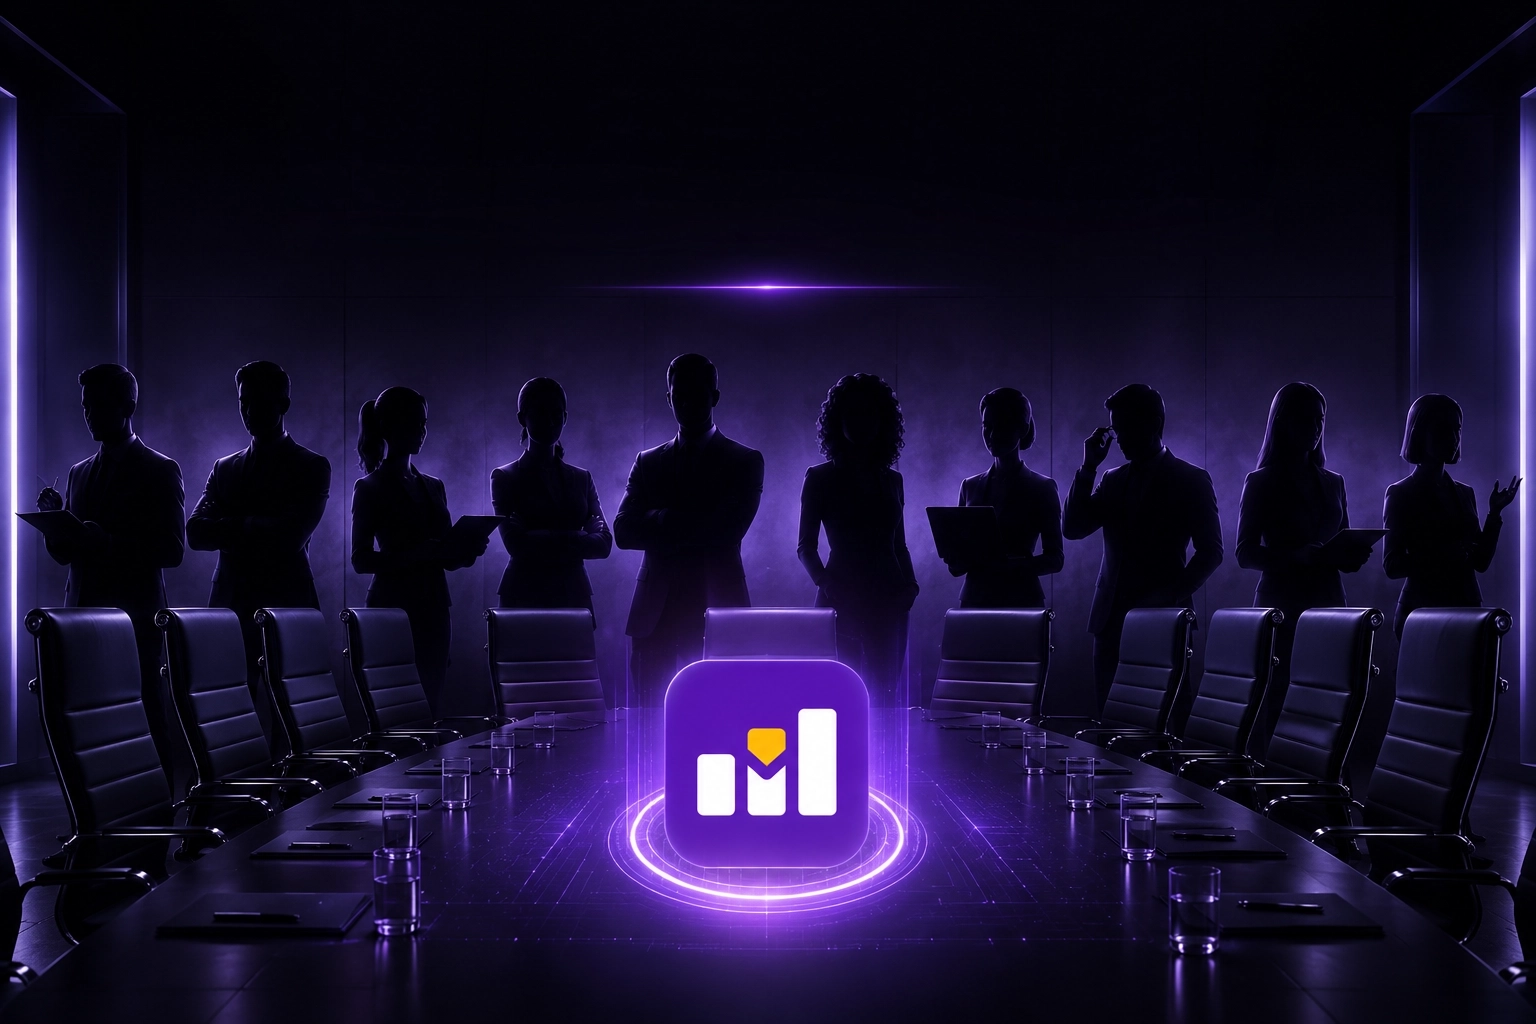
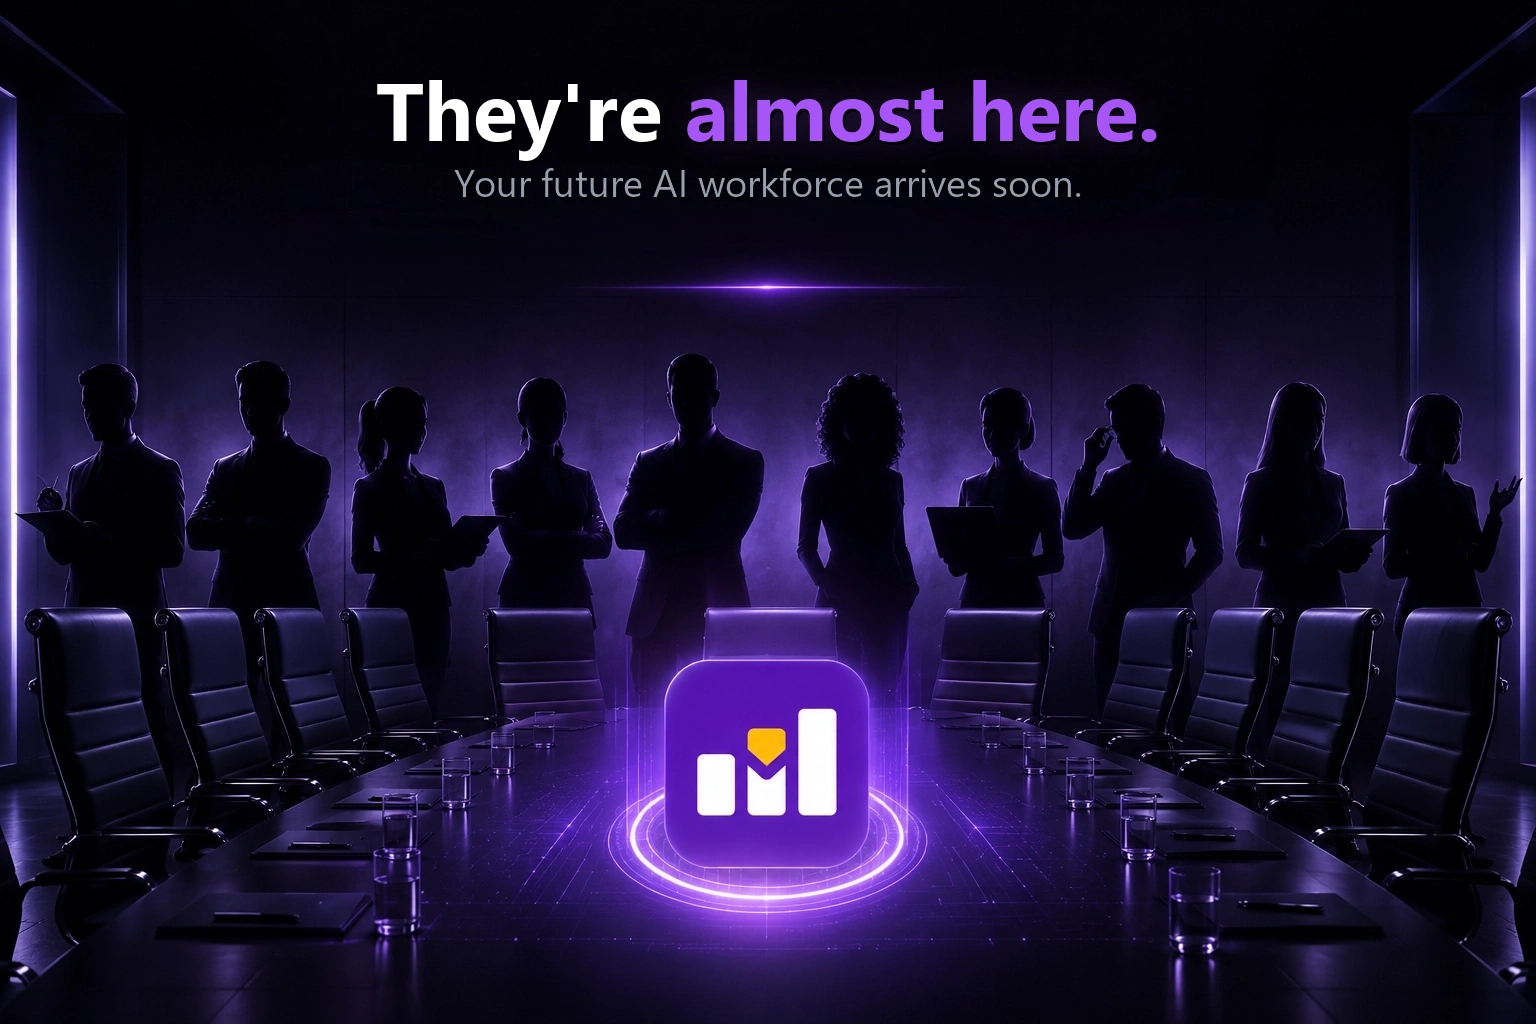
up

Changed region(s): [[0.25, 0.0625, 0.75, 0.1875]]

diff --git a/src/pages/landing1.css b/src/pages/landing1.css
@@ -413,7 +413,7 @@
   position: absolute;
   inset: 0;
   z-index: 2;
-  background: transparent;
+  background: linear-gradient(180deg, rgba(5, 1, 11, 0) 0%, rgba(5, 1, 11, 0.25) 35%, rgba(5, 1, 11, 0.82) 100%);
   pointer-events: none;
 }
 
@@ -422,7 +422,7 @@
   z-index: 3;
   text-align: center;
   width: 100%;
-  padding: 0 24px 45px;
+  padding: 0 24px 50px;
   display: flex;
   flex-direction: column;
   align-items: center;
@@ -435,21 +435,21 @@
   flex-direction: column;
   align-items: center;
   justify-content: center;
-  margin-bottom: 22px;
-  font-family: 'Space Grotesk', 'Inter', sans-serif;
+  margin-bottom: 20px;
+  font-family: 'Space Grotesk', 'Inter', system-ui, -apple-system, sans-serif;
   letter-spacing: -0.02em;
 }
 
 .landing1-page-root .hero-title-line1 {
-  font-size: clamp(30px, 4.5vw, 50px);
-  font-weight: 600;
-  color: #FFFFFF;
+  font-size: clamp(28px, 4.2vw, 54px);
+  font-weight: 500;
+  color: #D1D5DB;
   line-height: 1.15;
   letter-spacing: -0.01em;
 }
 
 .landing1-page-root .hero-title-line2 {
-  font-size: clamp(38px, 6.2vw, 68px);
+  font-size: clamp(36px, 6vw, 70px);
   font-weight: 700;
   color: #FFFFFF;
   line-height: 1.1;
@@ -457,21 +457,30 @@
 }
 
 .landing1-page-root .purple-gradient-text {
-  background: linear-gradient(135deg, #D8B4FE 0%, #A855F7 50%, #9333EA 100%);
+  color: #A855F7;
+  background: linear-gradient(135deg, #C084FC 0%, #A855F7 50%, #9333EA 100%);
   -webkit-background-clip: text;
   -webkit-text-fill-color: transparent;
-  text-shadow: 0 0 35px rgba(168, 85, 247, 0.45);
+  text-shadow: 0 0 30px rgba(168, 85, 247, 0.6);
   display: inline-block;
 }
 
 .landing1-page-root .hero-subtitle {
-  font-size: clamp(15px, 2vw, 19px);
+  font-size: clamp(14px, 1.8vw, 18px);
   font-weight: 400;
-  color: #B3A8CB;
-  line-height: 1.6;
-  max-width: 580px;
-  margin-bottom: 34px;
+  color: #9CA3AF;
+  line-height: 1.5;
+  max-width: 560px;
+  margin-bottom: 28px;
   text-align: center;
+}
+
+.landing1-page-root .hero-sub-block {
+  display: inline;
+}
+
+.landing1-page-root .hero-sub-desktop-br {
+  display: inline;
 }
 
 .landing1-page-root .hero-cta-button {
@@ -1658,8 +1667,37 @@
   .landing1-page-root .hero-content {
     padding-bottom: 24px;
   }
+  .landing1-page-root .hero-title-line1 {
+    font-size: clamp(24px, 6vw, 34px);
+    margin-bottom: 2px;
+  }
+  .landing1-page-root .hero-title-line2 {
+    font-size: clamp(30px, 8.5vw, 42px);
+    display: flex;
+    flex-direction: column;
+    align-items: center;
+    line-height: 1.1;
+  }
+  .landing1-page-root .hero-title-word-business {
+    display: block;
+  }
+  .landing1-page-root .purple-gradient-text {
+    display: block;
+  }
+  .landing1-page-root .hero-subtitle {
+    font-size: clamp(13px, 3.5vw, 15px);
+    line-height: 1.45;
+    margin-bottom: 22px;
+    max-width: 320px;
+  }
+  .landing1-page-root .hero-sub-block {
+    display: block;
+  }
+  .landing1-page-root .hero-sub-desktop-br {
+    display: none;
+  }
   .landing1-page-root .hero-cta-button {
-    padding: 12px 24px;
+    padding: 12px 26px;
     font-size: 14px;
   }
   .landing1-page-root .hero-grid {
@@ -2454,7 +2492,7 @@ body:has(.landing1-page-root) .sales-floating-wrapper {
   flex-direction: column;
   align-items: center;
   justify-content: flex-start;
-  padding: clamp(380px, 55vh, 540px) 20px 80px;
+  padding: clamp(340px, 38vh, 440px) 20px 60px;
   position: relative;
   overflow: hidden;
   z-index: 1;
@@ -2473,11 +2511,78 @@ body:has(.landing1-page-root) .sales-floating-wrapper {
   align-items: center;
 }
 
-/* Join Button with WhatsApp Icon */
+.thankyou-title {
+  font-family: 'Space Grotesk', -apple-system, BlinkMacSystemFont, sans-serif;
+  font-size: clamp(42px, 7vw, 84px);
+  font-weight: 800;
+  letter-spacing: 0.03em;
+  line-height: 1.05;
+  margin: 0 0 16px 0;
+  background: linear-gradient(180deg, #FFFFFF 0%, #E9D5FF 35%, #C084FC 70%, #8B3DFF 100%);
+  -webkit-background-clip: text;
+  -webkit-text-fill-color: transparent;
+  filter: drop-shadow(0 0 25px rgba(168, 85, 247, 0.65)) drop-shadow(0 0 50px rgba(139, 61, 255, 0.4));
+}
+
+.thankyou-subtitle-wrap {
+  display: flex;
+  align-items: center;
+  justify-content: center;
+  gap: 16px;
+  margin-bottom: 28px;
+  width: 100%;
+  max-width: 480px;
+}
+
+.thankyou-sub-line {
+  flex: 1;
+  height: 1px;
+  background: linear-gradient(90deg, transparent 0%, rgba(192, 132, 252, 0.75) 50%, transparent 100%);
+}
+
+.thankyou-subtitle {
+  font-family: 'Space Grotesk', sans-serif;
+  font-size: clamp(12px, 1.8vw, 15px);
+  font-weight: 700;
+  letter-spacing: 0.28em;
+  color: #C084FC;
+  text-transform: uppercase;
+  text-shadow: 0 0 16px rgba(192, 132, 252, 0.65);
+}
+
+.thankyou-body-text {
+  color: rgba(243, 238, 255, 0.92);
+  font-size: clamp(15px, 2.1vw, 18px);
+  line-height: 1.6;
+  font-weight: 400;
+  max-width: 600px;
+  margin: 0 auto;
+  text-shadow: 0 2px 12px rgba(0, 0, 0, 0.9);
+}
+
+.thankyou-body-text p {
+  margin: 0;
+}
+
+.thankyou-purple-text {
+  color: inherit;
+  font-weight: inherit;
+  text-shadow: none;
+}
+
+.thankyou-text-spacer {
+  height: 14px;
+}
+
+.thankyou-bottom-spacer {
+  height: clamp(60px, 12vh, 120px);
+}
+
+/* Join Button with WhatsApp Icon & Right Arrow */
 .thankyou-btn-wrap {
   position: relative;
   z-index: 5;
-  margin-top: 20px;
+  margin-top: 8px;
 }
 
 .thankyou-whatsapp-btn {
@@ -2518,8 +2623,23 @@ body:has(.landing1-page-root) .sales-floating-wrapper {
   transition: transform 0.3s ease;
 }
 
+.thankyou-btn-arrow {
+  width: 18px;
+  height: 18px;
+  stroke: #FFFFFF;
+  stroke-width: 2.2;
+  fill: none;
+  flex-shrink: 0;
+  transition: transform 0.3s ease;
+  margin-left: 2px;
+}
+
 .thankyou-whatsapp-btn:hover .thankyou-whatsapp-icon {
   transform: scale(1.18) rotate(-6deg);
+}
+
+.thankyou-whatsapp-btn:hover .thankyou-btn-arrow {
+  transform: translateX(4px);
 }
 
 @media (max-width: 980px) {
@@ -2541,12 +2661,42 @@ body:has(.landing1-page-root) .sales-floating-wrapper {
   }
 }
 
-@media (max-width: 980px) {
+@media (max-width: 768px) {
   .landing1-page-root.thankyou-page-wrapper {
     background: #06020c url('/images/landing/mobile%20thankyou.webp') center top / cover no-repeat;
   }
   .thankyou-main {
-    padding: clamp(340px, 52vh, 480px) 16px 60px;
+    padding: clamp(230px, 30vh, 280px) 16px 40px;
+  }
+  .thankyou-title {
+    font-size: clamp(32px, 8.5vw, 44px);
+    letter-spacing: 0.03em;
+    margin-bottom: 10px;
+  }
+  .thankyou-subtitle-wrap {
+    max-width: 280px;
+    gap: 8px;
+    margin-bottom: 24px;
+  }
+  .thankyou-subtitle {
+    font-size: 11px;
+    letter-spacing: 0.22em;
+  }
+  .thankyou-body-text {
+    font-size: 14.5px;
+    line-height: 1.55;
+    padding: 0 12px;
+  }
+  .thankyou-purple-text {
+    color: #C084FC;
+    font-weight: 600;
+    text-shadow: 0 0 10px rgba(192, 132, 252, 0.5);
+  }
+  .thankyou-text-spacer {
+    height: 10px;
+  }
+  .thankyou-bottom-spacer {
+    height: clamp(30px, 6vh, 70px);
   }
   .thankyou-whatsapp-btn {
     padding: 13px 26px;

diff --git a/src/pages/ThankYou.jsx b/src/pages/ThankYou.jsx
@@ -42,10 +42,26 @@ j=d.createElement(s),dl=l!='dataLayer'?'&l='+l:'';j.async=true;j.src=
 
       <main className="thankyou-main">
         <div className="thankyou-card">
-          <h1 className="sr-only">THANK YOU! YOU’RE ALL SET!</h1>
-          <p className="sr-only">We’ve received your details and you’re officially on the list. Our team will reach out to you soon with exciting updates and early access.</p>
+          <h1 className="thankyou-title">THANK YOU!</h1>
+          
+          <div className="thankyou-subtitle-wrap">
+            <span className="thankyou-sub-line"></span>
+            <span className="thankyou-subtitle">YOU’RE ALL SET!</span>
+            <span className="thankyou-sub-line"></span>
+          </div>
 
-          {/* Join The Community Button with WhatsApp Icon */}
+          <div className="thankyou-body-text">
+            <p>We’ve received your details and</p>
+            <p>you’re officially on the list.</p>
+            <div className="thankyou-text-spacer"></div>
+            <p>Our team will reach out to you soon with</p>
+            <p><span className="thankyou-purple-text">exciting updates</span> and <span className="thankyou-purple-text">early access</span>.</p>
+          </div>
+
+          {/* Spacer to push button comfortably below the horizon arc */}
+          <div className="thankyou-bottom-spacer"></div>
+
+          {/* Join The Community Button with WhatsApp Icon & Right Arrow */}
           <div className="thankyou-btn-wrap">
             <a 
               href="https://whatsapp.com/channel/0029Va6DqhaH5JLwvPx90k39" 
@@ -63,6 +79,13 @@ j=d.createElement(s),dl=l!='dataLayer'?'&l='+l:'';j.async=true;j.src=
                 <path d="M12.004 2C6.486 2 2 6.486 2 12.004c0 1.996.587 3.939 1.698 5.603L2 22l4.526-1.644a10.007 10.007 0 0 0 5.478 1.648c5.518 0 10.004-4.486 10.004-10.004C22.008 6.486 17.522 2 12.004 2zm0 18.286c-1.764 0-3.487-.478-4.98-1.382l-.357-.215-2.696.98.995-2.628-.236-.376A8.257 8.257 0 0 1 3.719 12.004C3.719 7.435 7.435 3.719 12.004 3.719c4.569 0 8.285 3.716 8.285 8.285 0 4.569-3.716 8.282-8.285 8.282z"/>
               </svg>
               <span>Join The Community</span>
+              <svg 
+                className="thankyou-btn-arrow" 
+                viewBox="0 0 24 24" 
+                aria-hidden="true"
+              >
+                <path strokeLinecap="round" strokeLinejoin="round" d="M13.5 4.5L21 12m0 0l-7.5 7.5M21 12H3" />
+              </svg>
             </a>
           </div>
         </div>

diff --git a/src/pages/landing1.jsx b/src/pages/landing1.jsx
@@ -343,8 +343,28 @@ export default function landing1() {
             <source media="(max-width: 980px)" srcSet="/images/landing/hero%20IMAGE%20MOBILE%20VIEW.webp" />
             <img src="/images/landing/hero_section.webp" alt="A New Era of Business Is Loading - Mingrow" className="hero-bg-img" />
           </picture>
-          <h1 className="sr-only">A New Era of Business Is Loading</h1>
-          <p className="sr-only">The next evolution of work isn't software. It's something entirely different.</p>
+          <div className="hero-overlay"></div>
+          <div className="hero-content">
+            <h1 className="hero-title">
+              <span className="hero-title-line1">A New Era of</span>
+              <span className="hero-title-line2">
+                <span className="hero-title-word-business">Business </span>
+                <span className="purple-gradient-text">Is Loading</span>
+              </span>
+            </h1>
+            <p className="hero-subtitle">
+              <span className="hero-sub-block">The next evolution of work </span>
+              <span className="hero-sub-block">isn't software.</span>
+              <br className="hero-sub-desktop-br" />
+              <span className="hero-sub-block">It's something entirely different.</span>
+            </p>
+            <button 
+              className="hero-cta-button"
+              onClick={() => document.querySelector('.form-section')?.scrollIntoView({ behavior: 'smooth' })}
+            >
+              Request Early Access <span className="cta-arrow">→</span>
+            </button>
+          </div>
         </div>
       </section>
 

diff --git a/src/App.jsx b/src/App.jsx
@@ -3,13 +3,11 @@ import ThankYou from './pages/ThankYou';
 
 function App() {
   const path = window.location.pathname.toLowerCase();
-  if (
-    path === '/thankyou' || 
-    path === '/thnakyou' || 
-    path === '/thank-you' || 
-    path === '/thankyou.html' ||
-    path === '/thnakyou.html'
-  ) {
+  const isThankYou = 
+    path.includes('thank') || 
+    path.includes('thnak');
+
+  if (isThankYou) {
     return <ThankYou />;
   }
   return <Landing1 />;
